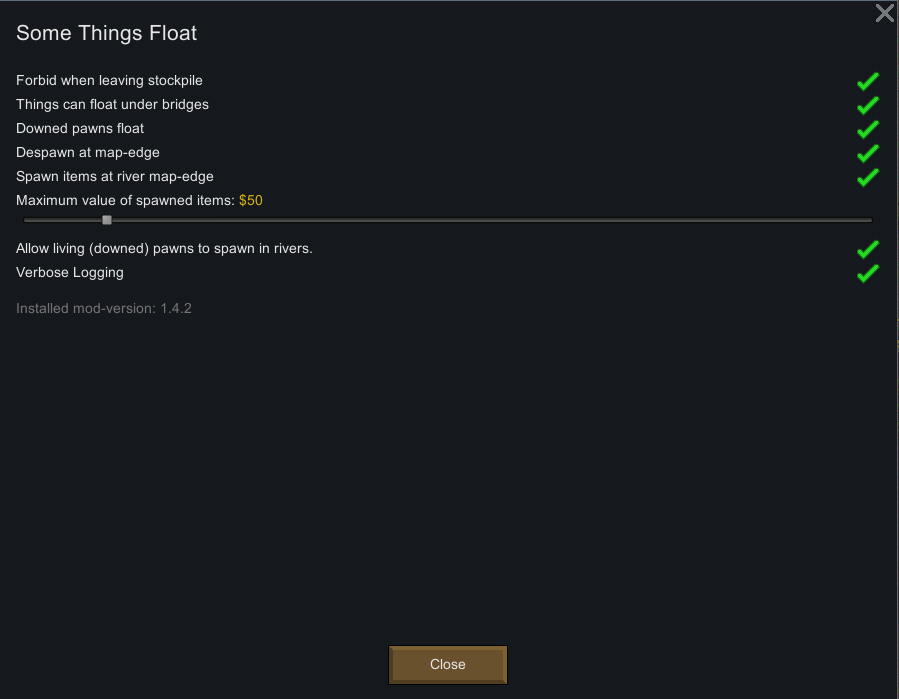
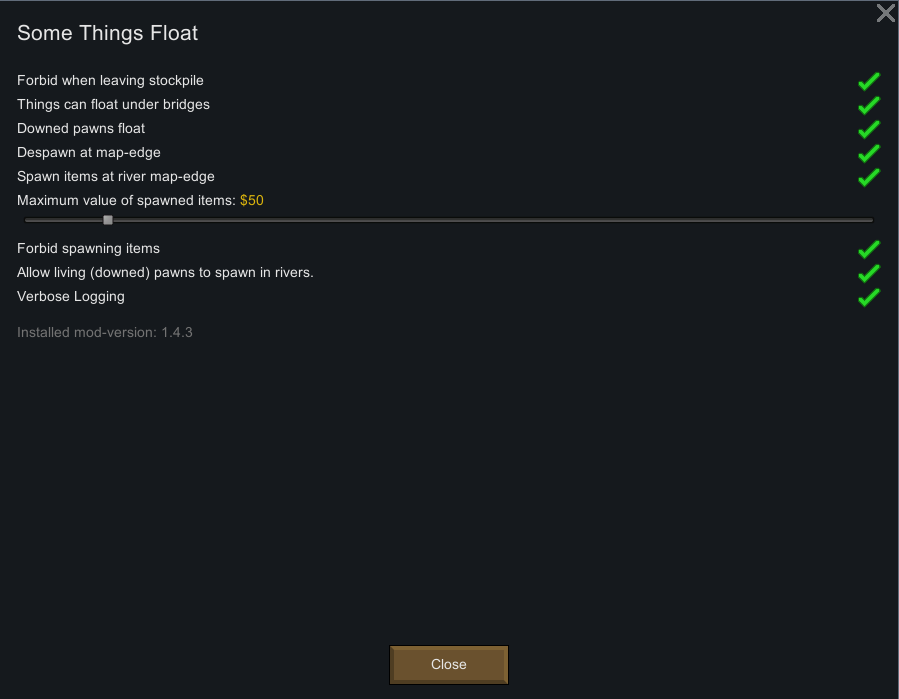
Added option to auto-forbid all spawning items. Used DeepL to update translations for ChineseSimplified, French, German, Russian

diff --git a/Source/SomeThingsFloat/SomeThingsFloatSettings.cs b/Source/SomeThingsFloat/SomeThingsFloatSettings.cs
@@ -10,6 +10,7 @@ internal class SomeThingsFloatSettings : ModSettings
     public bool DespawnAtMapEdge = true;
     public bool DownedPawnsFloat = true;
     public bool FloatUnderBridges = true;
+    public bool ForbidSpawningItems;
     public bool ForbidWhenMoving = true;
     public float MaxSpawnValue = 50f;
     public bool SpawnLivingPawns = true;
@@ -23,6 +24,7 @@ internal class SomeThingsFloatSettings : ModSettings
     {
         base.ExposeData();
         Scribe_Values.Look(ref VerboseLogging, "VerboseLogging");
+        Scribe_Values.Look(ref ForbidSpawningItems, "ForbidSpawningItems");
         Scribe_Values.Look(ref ForbidWhenMoving, "ForbidWhenMoving", true);
         Scribe_Values.Look(ref FloatUnderBridges, "FloatUnderBridges", true);
         Scribe_Values.Look(ref DespawnAtMapEdge, "DespawnAtMapEdge", true);

diff --git a/Source/SomeThingsFloat/SomeThingsFloatMod.cs b/Source/SomeThingsFloat/SomeThingsFloatMod.cs
@@ -64,6 +64,8 @@ internal class SomeThingsFloatMod : Mod
             listing_Standard.Label("STF.MaxSpawnValue".Translate(Settings.MaxSpawnValue.ToStringMoney()), -1,
                 "STF.MaxSpawnValueTT".Translate());
             Settings.MaxSpawnValue = listing_Standard.Slider(Settings.MaxSpawnValue, 0, 500f);
+            listing_Standard.CheckboxLabeled("STF.ForbidSpawningItems".Translate(), ref Settings.ForbidSpawningItems,
+                "STF.ForbidSpawningItemsTT".Translate());
             listing_Standard.CheckboxLabeled("STF.SpawnLivingPawns".Translate(), ref Settings.SpawnLivingPawns,
                 "STF.SpawnLivingPawnsTT".Translate());
         }

diff --git a/Source/SomeThingsFloat/FloatingThings_MapComponent.cs b/Source/SomeThingsFloat/FloatingThings_MapComponent.cs
@@ -350,7 +350,10 @@ public class FloatingThings_MapComponent : MapComponent
         if (!GenPlace.TryPlaceThing(thing, cellToPlaceIt, map, ThingPlaceMode.Direct))
         {
             SomeThingsFloat.LogMessage($"{thing} could not be created at map edge: {cellToPlaceIt}");
+            return;
         }
+
+        thing.SetForbidden(SomeThingsFloatMod.instance.Settings.ForbidSpawningItems, false);
     }
 
     private void updateListOfFloatingThings()

diff --git a/README.md b/README.md
@@ -31,4 +31,4 @@ https://ko-fi.com/G2G55DDYD]![Image](https://i.imgur.com/Utx6OIH.png)
 -  If you have the solution for a problem, please post it to the GitHub repository.
 
 
-https://steamcommunity.com/sharedfiles/filedetails/changelog/2940072380]Last updated 2023-03-01
+https://steamcommunity.com/sharedfiles/filedetails/changelog/2940072380]Last updated 2023-03-02
